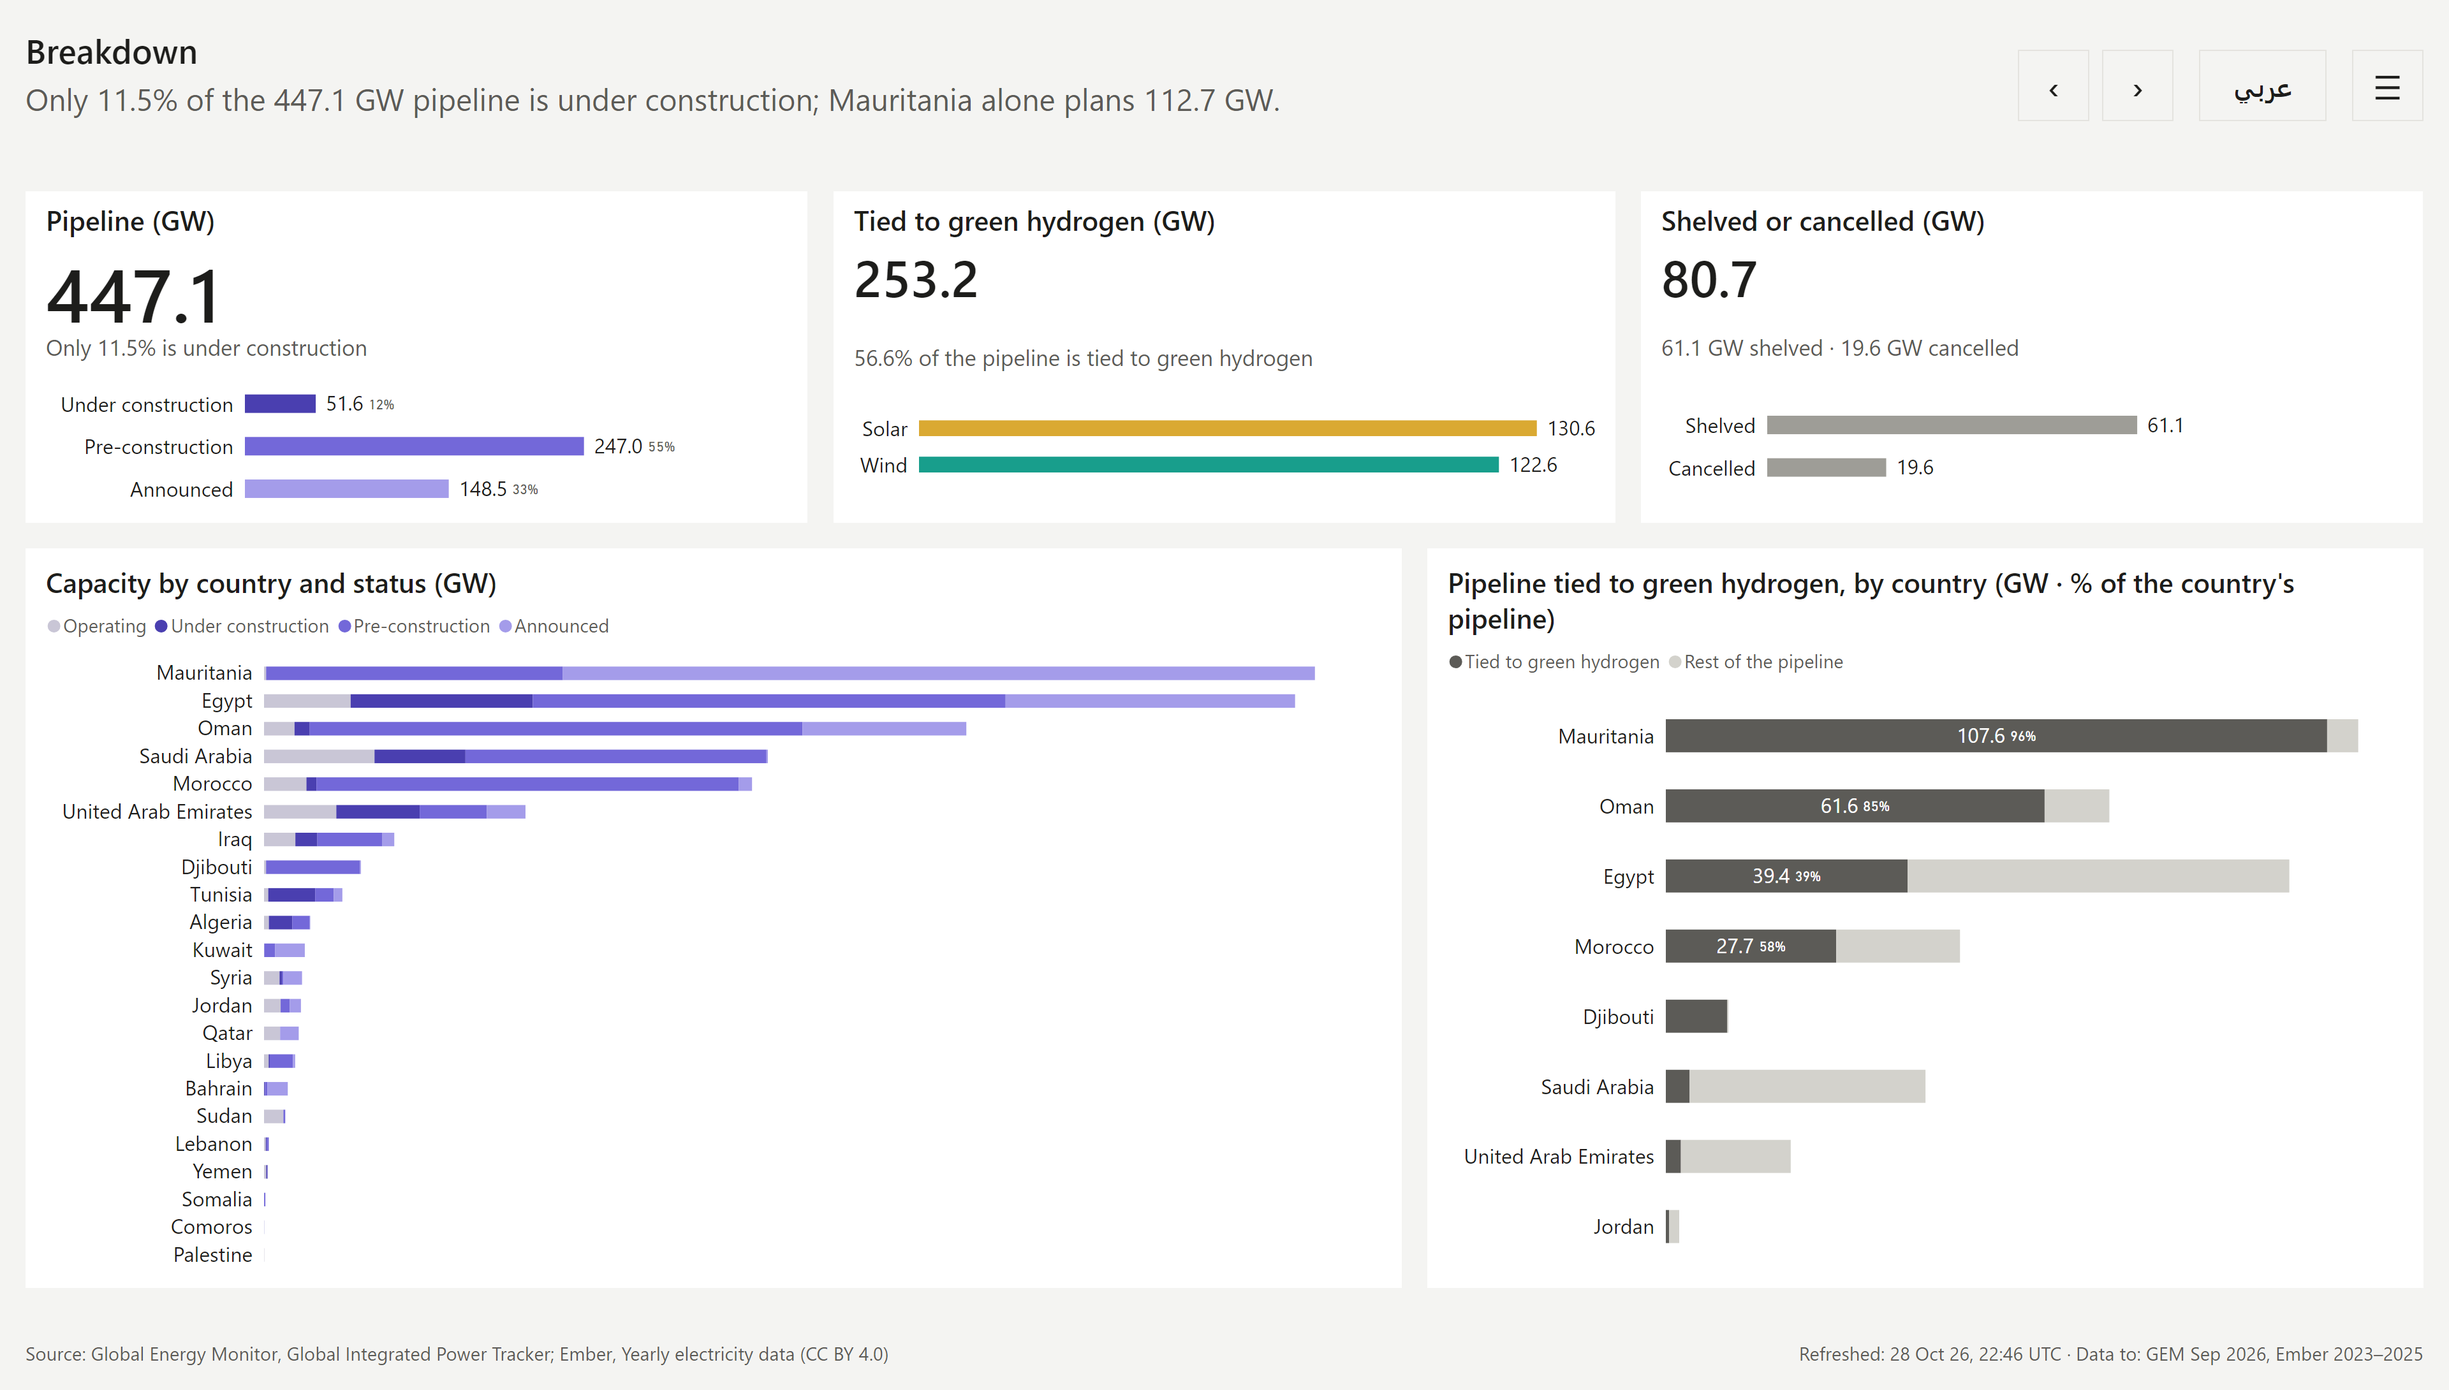
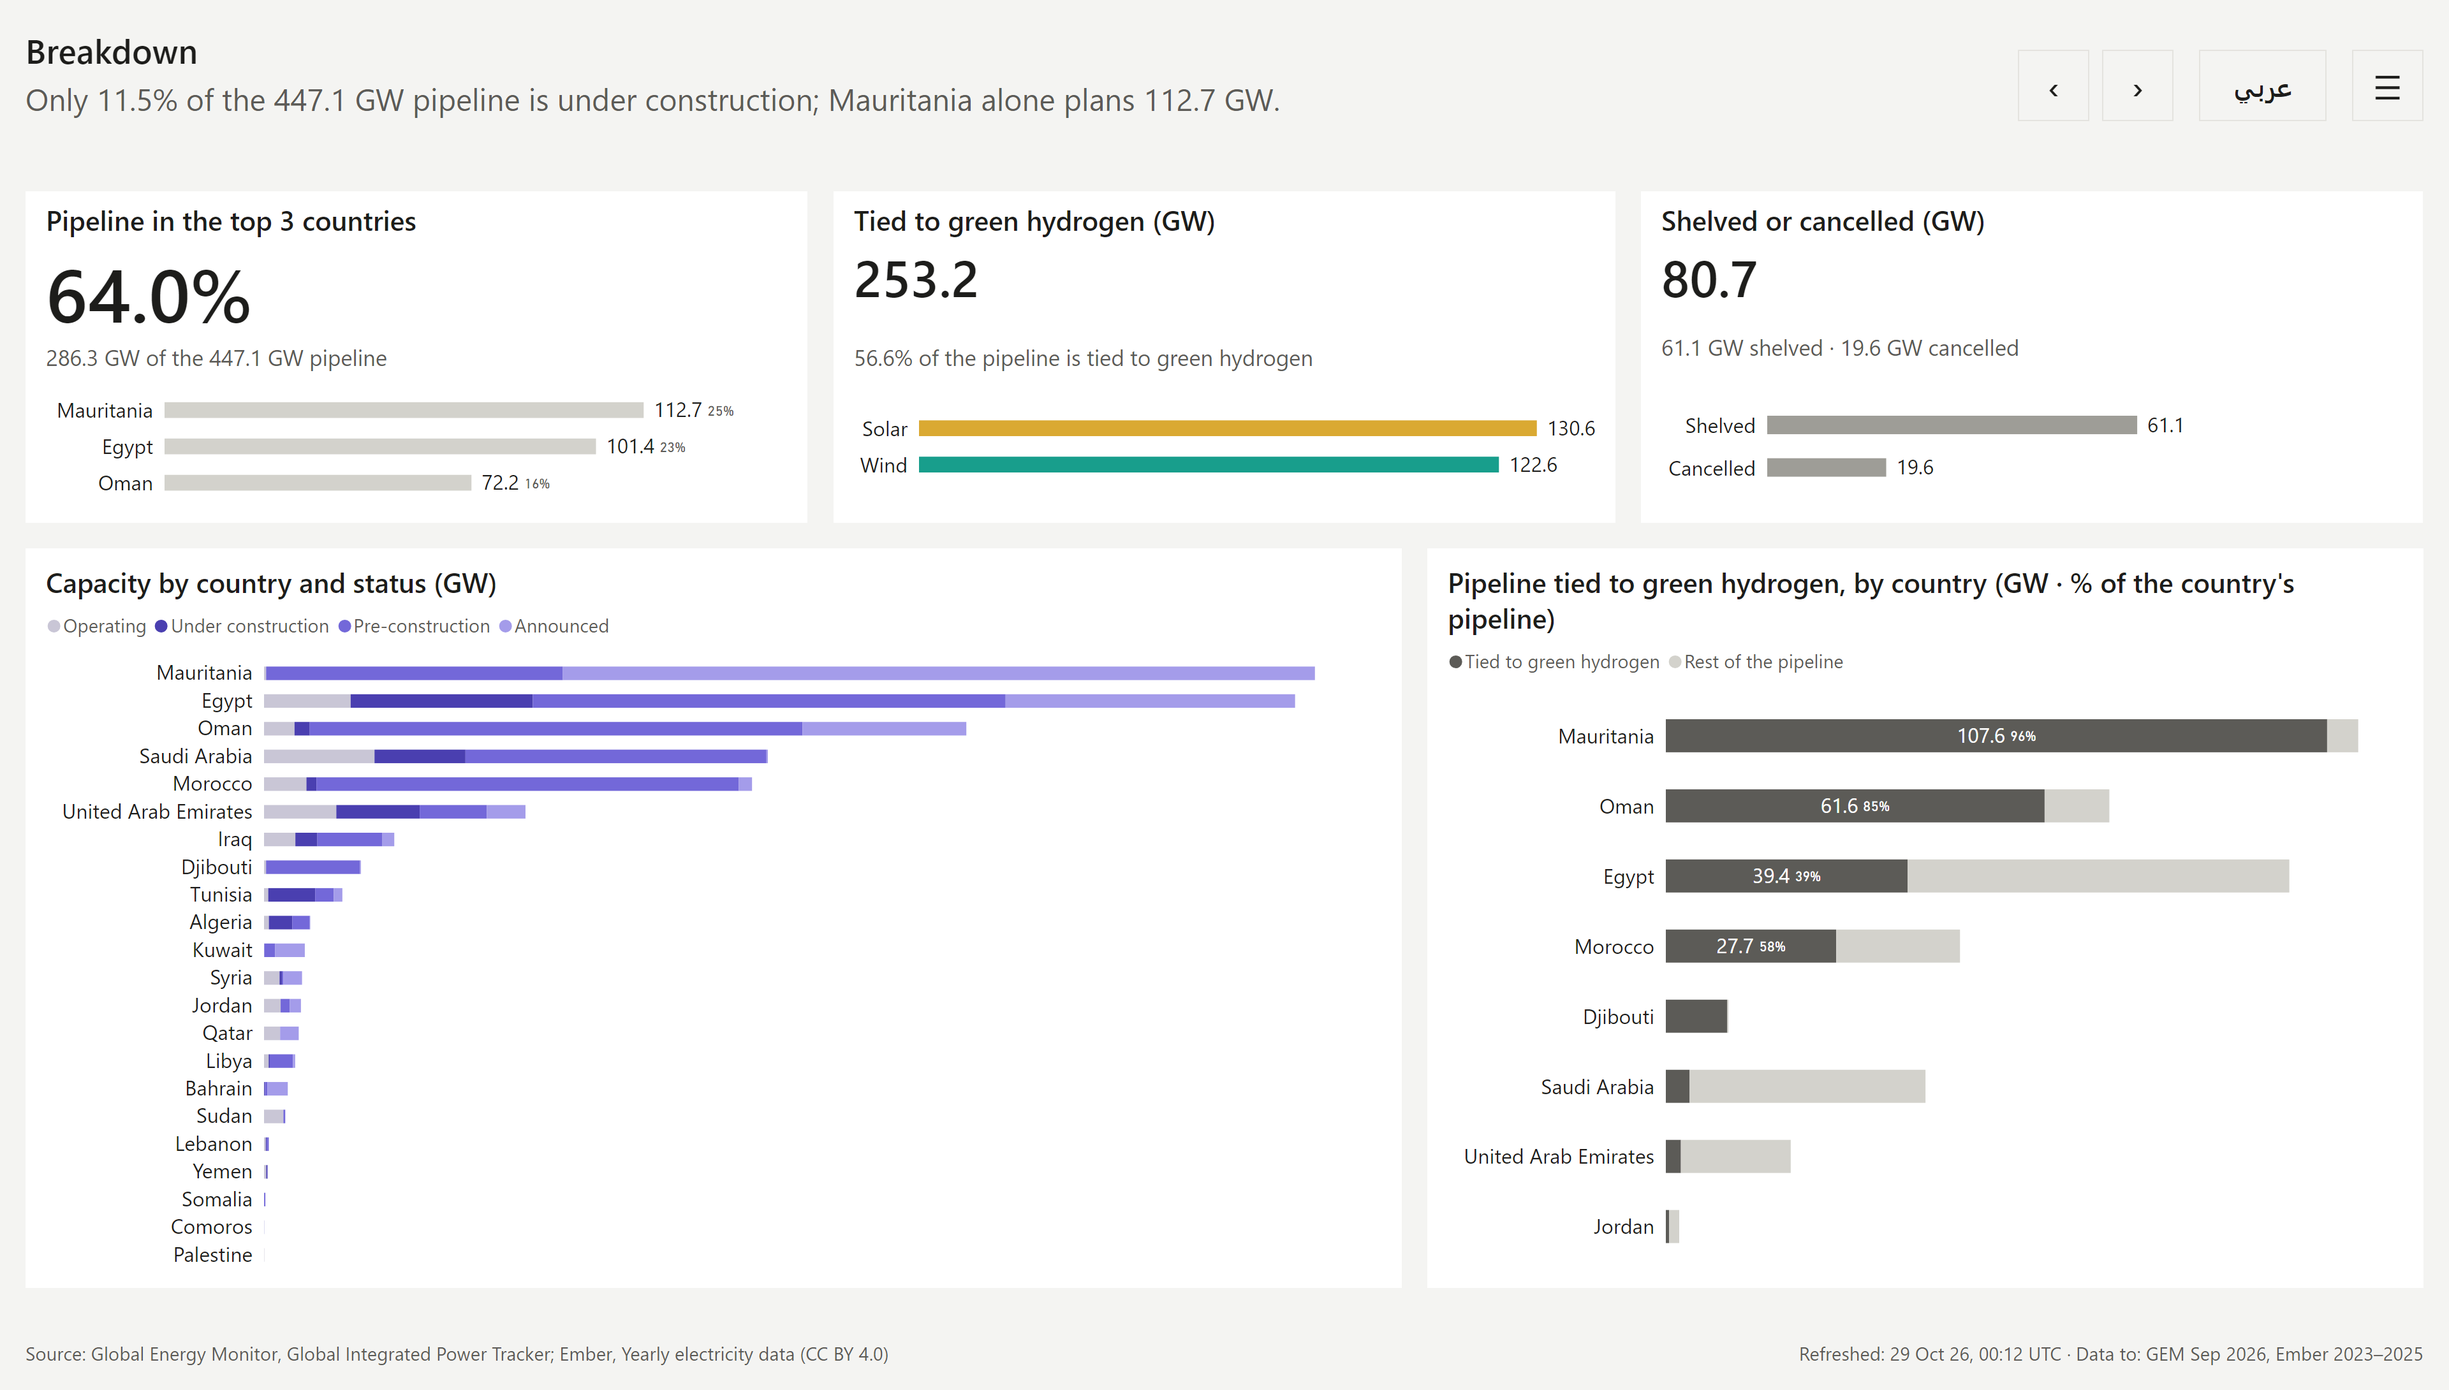
Docs and README for v3: answered open questions, decisions 36-39, new Breakdown screenshots

Changed region(s): [[0.0, 0.156, 0.2812, 0.3743]]

diff --git a/README.md b/README.md
@@ -23,6 +23,7 @@ The report is written for a **market-screening team at a renewable-energy develo
 
 - **49.8 GW is operating, and 51.6 GW is under construction**: more is being built than is running today.
 - **The pipeline is 447.1 GW, but only 11.5% of it is under construction**; 55% is pre-construction and 33% only announced.
+- **64% of the pipeline sits in three countries**: Mauritania (112.7 GW), Egypt (101.4 GW) and Oman (72.2 GW).
 - **Wind and solar supply 3.8% of the region's electricity** (2023, the latest year every country reports), 9.6 points below the world.
 - **56.6% of the pipeline is tied to green hydrogen.** In Mauritania it is 96%, in Oman 85%; Mauritania alone plans 112.7 GW.
 - **8.8 GW is expected online in 2026 and 18.5 GW in 2027**, but only 59% of the capacity under construction has an expected year, and the report says so next to the chart.
@@ -32,9 +33,11 @@ The report is written for a **market-screening team at a renewable-energy develo
 | Page | Key visual | Story |
 |---|---|---|
 | **Overview** | Capacity coming online each year: built (2015–2025) and under construction by expected year (2026–2029) | Building is accelerating, from a small base |
-| **Breakdown** | Capacity by country and status; pipeline tied to green hydrogen by country | The pipeline is concentrated, and most of it is still on paper |
+| **Breakdown** | Share of the pipeline in the top 3 countries; capacity by country and status; pipeline tied to green hydrogen by country | The pipeline is concentrated, and most of it is still on paper |
 | **Opportunity** | Each country's wind and solar share against the world's; country scorecard | Where the transition gap is, and who is building into it |
 | **Projects** | Ten largest projects, top owners, and every project | A few megaprojects and a few owners |
+
+Right-click any country, on any page, to drill through to its projects.
 
 ![Breakdown page](docs/images/en_breakdown.png)
 
@@ -65,7 +68,7 @@ Tooltips lead with the value, then say what was hovered, then add detail (here t
 
 I built this report with Claude Code, an AI coding agent working in my repo and terminal. I set the direction and made the decisions; the agent did most of the typing, and every step had a check that didn't depend on trusting it.
 
-**I own the decisions.** Each phase was decided together, one at a time: dataset, persona and business questions, visual guidelines, semantic model, then each page. The agent laid out options with trade-offs and a recommendation; I chose. Early on it ran ahead and started generating files after a single answer, so I stopped it and restarted from dataset selection, and "decide each phase together" became a standing rule. The decisions logs in [`docs/`](docs/) record what was chosen and why (35 visual decisions so far).
+**I own the decisions.** Each phase was decided together, one at a time: dataset, persona and business questions, visual guidelines, semantic model, then each page. The agent laid out options with trade-offs and a recommendation; I chose. Early on it ran ahead and started generating files after a single answer, so I stopped it and restarted from dataset selection, and "decide each phase together" became a standing rule. The decisions logs in [`docs/`](docs/) record what was chosen and why (39 visual decisions so far).
 
 **The agent builds; scripts make it repeatable.** Rather than editing Power BI by hand, the agent wrote generators: `build_report.py` for the English pages, `mirror_pages.py` for the Arabic twins, `extract_data.py` for the data. A change is a change to a script or a spec, rebuilt in seconds, so a design decision applies to all eight pages at once.
 
@@ -74,7 +77,7 @@ I built this report with Claude Code, an AI coding agent working in my repo and 
 - DAX measures are checked with queries against the deployed model.
 - Colour isn't judged by eye: every palette went through a colour-vision-deficiency validator, and when I asked for a more distinct "came online" colour, the candidate was measured before it was used.
 
-**I review and redirect.** v1 was built as a complete draft so I could judge real pages. I reviewed it and asked for changes (page headers, thinner bars, colour roles, table alignment). I then had the agent evaluate the report against a data-visualisation checklist; that review became v2, with new analysis (what comes online next, hydrogen dependence) and fixes. My feedback on v2 (colours too close for colour-blind readers, margins off by a few pixels, technology detail moved into a tooltip) went into the same loop. Both rounds are written up in [`docs/page-proposals.md`](docs/page-proposals.md).
+**I review and redirect.** v1 was built as a complete draft so I could judge real pages. I reviewed it and asked for changes (page headers, thinner bars, colour roles, table alignment). I then had the agent evaluate the report against a data-visualisation checklist; that review became v2, with new analysis (what comes online next, hydrogen dependence) and fixes. My feedback on v2 (colours too close for colour-blind readers, margins off by a few pixels, technology detail moved into a tooltip) went into the same loop, and my answers to the remaining open questions became v3 (a concentration KPI, country drillthrough, unique Arabic plant names). Each round is written up in [`docs/page-proposals.md`](docs/page-proposals.md).
 
 **Honesty is built in.** The agent drafts the Arabic, but every string is flagged `machine` until a native speaker reviews it, and it is never marked reviewed without a real reviewer. Data limits are shown next to the number they qualify (for example, the share of capacity under construction with no expected year).
 
@@ -89,6 +92,8 @@ The project is a clean-room rebuild of techniques I had used before, done in a p
 - **Dynamic text is translated in the model.** Headlines, KPI status lines and notes are DAX measures that fill translated templates (`{construction} GW is under construction…`) and pick English or Arabic from a page-level language filter.
 - **Right-to-left text in a left-to-right engine.** Power BI text boxes are left-to-right, so every Arabic sentence is wrapped in a right-to-left embedding (U+202B … U+202C); without it, sentences that start with a number come out in the wrong order.
 - **Formats never change with language.** Numbers, units and dates look the same on both pages (Western digits, `28 Oct 26`); only words are translated.
+- **Each language drills to its own page.** The Arabic Projects page binds the drillthrough to the Arabic country column, so right-clicking a country on an Arabic page opens the Arabic Projects page.
+- **Unique names in both languages.** GEM gives some separate plants the same Arabic name, which would merge their bars. The extract adds the technology (or, within one technology, the site) to those names, flagged as a draft.
 - **Honest provenance.** Every Arabic string records where it came from (`source` for GEM's own Arabic names, `machine` for drafts). None is marked reviewed until a native speaker has reviewed it.
 
 ## Built as code
@@ -134,7 +139,6 @@ Open `Renewables.Report/definition.pbir` in Power BI Desktop, or connect a Fabri
 ## Known limitations
 
 - **The Arabic is machine-drafted.** Every Arabic UI string is a draft awaiting a native-speaker review, and is flagged as such.
-- **GEM gives some separate plants the same Arabic name**, so Arabic visuals grouped by plant can merge them.
 - **Slicer controls show "Select all" and "All" in English** on Arabic pages; those words come from Power BI, not the report.
 - **The expected year is known for 59% of capacity under construction**; the rest has no planned year in GEM.
 

diff --git a/docs/page-proposals.md b/docs/page-proposals.md
@@ -1,12 +1,12 @@
 # Page proposals (v1)
 
-> **Status: draft for review.** Built overnight as v1 on the `report-v1` branch so the pages can be judged rendered, not on paper. Nothing here is agreed until reviewed; `main` is unchanged. Numbers are the live values from the model.
+> **Status: agreed and live.** v1 was built as a complete draft so the pages could be judged rendered, not on paper; two review rounds (v2, v3) followed and each was merged to `main` after review. v1 and v2 are kept as the git tags `v1` and `v2`. Sections 1–4 describe the v1 proposals; the change tables below record what replaced them. Numbers are the live values from the model.
 
 Every page follows the agreed frame (visual-guidelines.md sections 2–4 and 10): dynamic headline, Back / Next, language switch and ☰ menu in the header; KPI row ≈ 30% and main visuals ≈ 70% of the body; footer with source, refresh time and data period; a bookmark menu panel holding slicers and notes.
 
 ## v2 changes
 
-v2 was reviewed against v1 and replaced it on `main` on 29 Oct 2026; v1 remains in the git history (branch `report-v1`). Changes come from the dataviz skill review (visual-guidelines.md section 10.7) and two new analyses.
+v2 was reviewed against v1 and replaced it on `main` on 29 Oct 2026; v1 remains in the git history (tag `v1`). Changes come from the dataviz skill review (visual-guidelines.md section 10.7) and two new analyses.
 
 | Page | v1 | v2 | Why |
 |---|---|---|---|
@@ -26,6 +26,17 @@ Not built from the review:
 - Value-first tooltips on the KPI strips, hydrogen chart and Projects page (default tooltips there).
 
 The technology split dropped from the Overview and Breakdown charts now shows in the technology tooltip.
+
+## v3 changes
+
+Answers to the open questions (section 5), 29 Oct 2026:
+
+| Page | v2 | v3 | Why |
+|---|---|---|---|
+| Breakdown KPI 1 | Pipeline by stage (same panel as Overview KPI 3) | **Pipeline in the top 3 countries**: 64.0% (286.3 of 447.1 GW), bars for the three countries with GW and % of the pipeline | Supports the page headline ("the pipeline is concentrated") instead of repeating Overview |
+| Projects | Reached only from the page buttons | **Drillthrough by country**: right-click a country on any chart or table to see its projects (Arabic pages drill to the Arabic Projects page) | Question 4 |
+| Arabic plant names | 8 names shared by 18 plants, so their bars merged | Unique names: the technology is added where the plants differ by technology, a machine-drafted site name where they don't (e.g. Benban – Scatec); all 18 flagged `machine` | Arabic visuals now match the English ones |
+| Overview main | | No 2025 highlight | Question 1: the selective labels already pick out 2025 |
 
 ## 1. Overview: "Building is accelerating, but from a very small base"
 
@@ -76,18 +87,17 @@ No KPI row here: this page is the detail behind the other three.
 
 ## 5. Open questions for review
 
-1. **Overview main visual.** Should 2025 be highlighted (other years faded)? The legend uses technology colours, so the guideline's "fade the rest" would need per-year colour rules.
-2. **Breakdown KPI 1** repeats Overview KPI 3 (pipeline by stage). Keep it, or swap for something new (e.g. pipeline-to-operating ratio)?
-3. **Opportunity scatter.** Add reference lines at the regional weighted share (agreed in scope) and quadrant labels?
-4. **Drillthrough** from Breakdown and Opportunity to Projects isn't built yet.
+1. ~~**Overview main visual.** Should 2025 be highlighted (other years faded)?~~ No (v3). The legend uses technology colours, so the guideline's "fade the rest" would need per-year colour rules.
+2. ~~**Breakdown KPI 1** repeats Overview KPI 3 (pipeline by stage). Keep it, or swap for something new?~~ Replaced by pipeline concentration in the top 3 countries (v3).
+3. ~~**Opportunity scatter.** Add reference lines and quadrant labels?~~ Not needed: v2 replaced the scatter with the gap-to-world bars.
+4. ~~**Drillthrough** from Breakdown and Opportunity to Projects isn't built yet.~~ Built at country level (v3).
 5. ~~**Projects table**: keep the Unit column?~~ Dropped (visual-guidelines.md decision 24): GEM's English unit field holds Arabic for 6 units in 3 plants.
 
 ## 6. Known issues in v1
 
-- **Arabic plant names are not unique.** GEM gives some separate plants the same Arabic name (e.g. AMUN wind and AMUN solar are both "آمون للهيدروجين الأخضر"), so Arabic visuals grouped by plant merge them: the Arabic top-10 differs from the English one. Needs a decision: make `Plant AR` unique (e.g. add the technology) or group by plant ID and show the name as a label.
+- ~~**Arabic plant names are not unique.**~~ Fixed in v3 (see v3 changes). GEM's Arabic name for the Port Said Green Methanol solar farm says "wind" (طاقة رياح); it is kept as published.
 - Projects page: the top-10 bars show no value or H₂ labels (seen in English too in the v2 render; this page is unchanged from v1).
 - Slicer UI words ("Select all", "All") stay in English on Arabic pages; they come from Power BI, not the report.
-- Scatter labels overlap for the small countries near the origin (v1 only; v2 replaces the scatter).
 - The language button keeps the current page; filters chosen on one language page don't carry over.
 
 ## 7. How v1 is built and checked

diff --git a/docs/visual-guidelines.md b/docs/visual-guidelines.md
@@ -292,3 +292,7 @@ Every page is rendered to PNG through the Power BI export API and looked at befo
 | 33 | Edge margins | Measured on the rendered text: title text starts at y 20, footer text ends at y 1060, footer text 20 px from the sides |
 | 34 | Filter line | Active filters named on the title row (section 10.8) |
 | 35 | Tooltips | Value-first tooltip pages; technology split moves into the tooltip (section 10.8) |
+| 36 | Overview year highlight | None: the selective labels already pick out 2025 |
+| 37 | Breakdown KPI 1 | Pipeline share of the top 3 countries, neutral bars for those countries; no repeat of the Overview pipeline panel |
+| 38 | Drillthrough | Country level, to Projects; the Arabic Projects page binds `Country AR`, so each language drills to its own page |
+| 39 | Unique Arabic plant names | Technology added where plants sharing a name differ by technology, else a site name; flagged `machine` |
